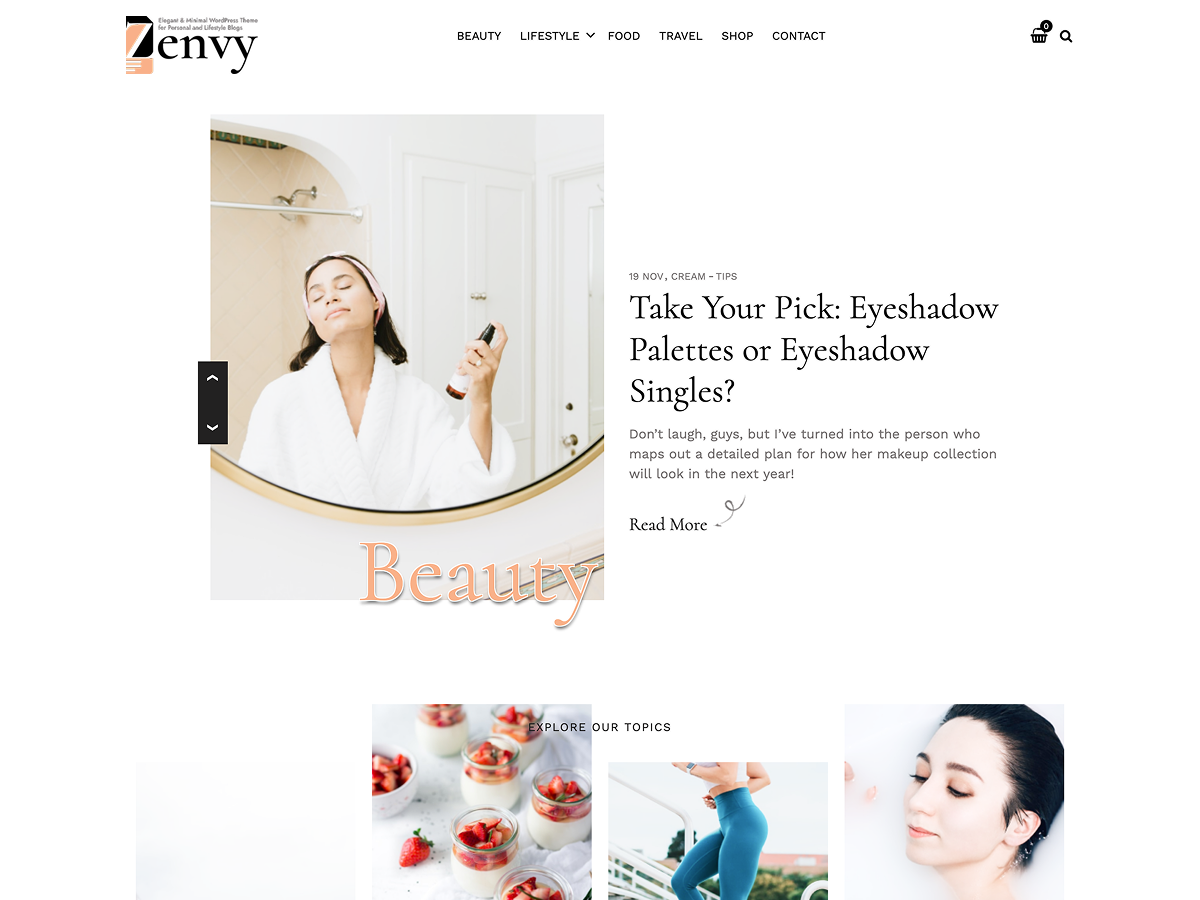
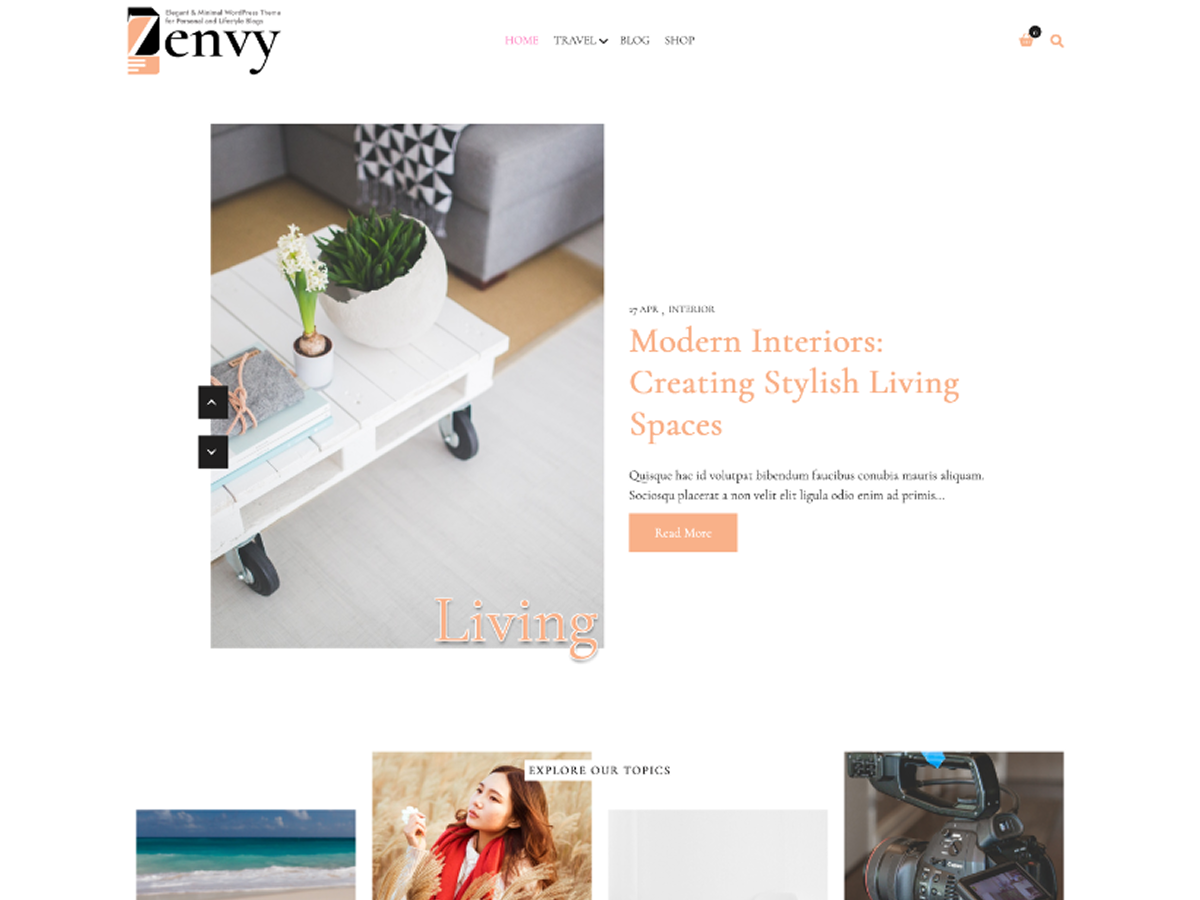
changed readme, screenshot and updated styles

diff --git a/assets/src/css/responsive.css b/assets/src/css/responsive.css
@@ -75,10 +75,8 @@
 	.post.flexible-post .post-content .entry-title {
 		font-size: 20px;
 	}
-}
 
-@media only screen and (max-width: 992px) {
-	.hgroup-right {
+.hgroup-right {
 		padding-right: 50px;
 	}
 	.main-navigation ul li ul {
@@ -117,9 +115,6 @@
 	.mean-container .mean-nav ul li li li a {
 		padding: 12px 8%;
 	}
-	.site-title {
-		font-size: 20px;
-	}
 	.mean-container a.meanmenu-reveal {
 		padding: 9px 0px 8px 5px;
 		top: 0;
@@ -142,22 +137,6 @@
 	.mean-container .meanmenu-reveal span::after {
 		background: var(--color-bg-dark);
 	}
-	.tags-links a:first-child {
-		font-size: 68px;
-	}
-	.slider-image-wrapper .tags-links {
-		bottom: 63px;
-	}
-	.section-wrap-inner .section-left,
-	.section-wrap-sidebar {
-		width: 100%;
-	}
-	.slider-title {
-		font-size: 36px;
-	}
-	.featured-slider {
-		padding: 35px 0 0;
-	}
 	.main-navigation .menu-item-has-children::before {
 		display: none;
 	}
@@ -175,6 +154,36 @@
 		height: 12px;
 		left: 0;
 	}
+	.site-header .mobile-navbar .mean-container .meanmenu-reveal.meanclose span {
+  background: transparent;
+}
+
+
+}
+
+@media only screen and (max-width: 992px) {
+	
+	.site-title {
+		font-size: 20px;
+	}
+	
+	.tags-links a:first-child {
+		font-size: 68px;
+	}
+	.slider-image-wrapper .tags-links {
+		bottom: 63px;
+	}
+	.section-wrap-inner .section-left,
+	.section-wrap-sidebar {
+		width: 100%;
+	}
+	.slider-title {
+		font-size: 36px;
+	}
+	.featured-slider {
+		padding: 35px 0 0;
+	}
+	
 	.widget-instagram ul li .featured-image img {
 		width: 100%;
 	}
@@ -281,9 +290,7 @@
  .section-wrap-inner .section-left {
     margin-bottom: 20px;
   }
-  .site-header .mobile-navbar .mean-container .meanmenu-reveal span {
-  background: transparent;
-}
+
 
 }
 

diff --git a/style.css b/style.css
@@ -3341,6 +3341,7 @@ div.bbp-submit-wrapper button {
 }
 .site-content .site-main > section.featured-slider {
   padding-bottom: 0;
+  z-index: 0;
 }
 
 /*     search section styling from here   */
@@ -4725,7 +4726,19 @@ content-post-tags {
 .mc4wp-form p label input[type="email"] {
   margin-top: 10px;
 }
-
+.site-header .header-search-section {
+    position: relative;
+    z-index: 3;
+}
+.main-navigation ul li li.menu-item-has-children {
+  margin: 0;
+}
+.main-navigation ul li li.menu-item-has-children::before {
+  right: 5px;
+}
+.main-navigation ul li li.menu-item-has-children:hover::before {
+  color: var(--color-white);
+}
 
 /*  10.0 ===== Footer =====   */
 
@@ -5036,7 +5049,6 @@ content-post-tags {
 /* builder */
 .site-header {
 	position: relative;
-	z-index: 99;
 }
 .site-header .top-header,
 .site-header .main-header,

diff --git a/assets/src/css/woocommerce.css b/assets/src/css/woocommerce.css
@@ -1,6 +1,9 @@
 /*!********************************************************************************************************************************************************************************************************************!*\
   !*** css ./node_modules/css-loader/dist/cjs.js??ruleSet[1].rules[2].use[1]!./node_modules/@wordpress/scripts/node_modules/postcss-loader/dist/cjs.js??ruleSet[1].rules[2].use[2]!./assets/src/css/woocommerce.css ***!
   \********************************************************************************************************************************************************************************************************************/
+/*!********************************************************************************************************************************************************************************************************************!*\
+  !*** css ./node_modules/css-loader/dist/cjs.js??ruleSet[1].rules[2].use[1]!./node_modules/@wordpress/scripts/node_modules/postcss-loader/dist/cjs.js??ruleSet[1].rules[2].use[2]!./assets/src/css/woocommerce.css ***!
+  \********************************************************************************************************************************************************************************************************************/
 /*
 Theme Name: Zenvy
 
@@ -606,5 +609,7 @@ article .entry-content ul li, article .entry-content ol li {
 .pagination a.next::before, .nav-next a::before{
 	color: var(--color-primary);
 }*/
+
+/*# sourceMappingURL=woocommerce.css.map*/
 
 /*# sourceMappingURL=woocommerce.css.map*/

diff --git a/functions.php b/functions.php
@@ -188,19 +188,6 @@ function zenvy_widgets_init()
 		)
 	);
 
-	// Subscribe Form
-	register_sidebar(
-		[
-			'name'          => esc_html__('Front Page: Subscribe Form', 'zenvy'),
-			'id'            => 'subscribe-form',
-			'description'   => esc_html__('Add widgets here.', 'zenvy'),
-			'before_widget' => '<section id="%1$s" class="widget %2$s">',
-			'after_widget'  => '</section>',
-			'before_title'  => '<h2 class="widget-title">',
-			'after_title'   => '</h2>',
-		]
-	);
-
 	for ($sidebar = 1; $sidebar <= 6; $sidebar++) {
 		register_sidebar(
 			[

diff --git a/inc/customizer/options/blog-posts/Zenvy_Customize_Blog_Sidebar_Fields.php b/inc/customizer/options/blog-posts/Zenvy_Customize_Blog_Sidebar_Fields.php
@@ -24,9 +24,9 @@ class Zenvy_Customize_Blog_Sidebar_Fields extends Zenvy_Customize_Base_Field {
 				'section'           => 'zenvy_blog_sidebar_section',
 				'priority'          => 15,
 				'choices'           => [
-					'left'  => ZENVY_THEME_URI . 'assets/build/images/left.svg',
-					'right' => ZENVY_THEME_URI . 'assets/build/images/right.svg',
-					'none'  => ZENVY_THEME_URI . 'assets/build/images/none.svg',
+					'left'  => ZENVY_THEME_URI . 'assets/build/images/left.png',
+					'right' => ZENVY_THEME_URI . 'assets/build/images/right.png',
+					'none'  => ZENVY_THEME_URI . 'assets/build/images/none.png',
 				],
 				'l10n'              => [
 					'left'  => esc_html__( 'Left', 'zenvy' ),

diff --git a/inc/customizer/options/single-page/Zenvy_Customize_Single_Page_Sidebar_Fields.php b/inc/customizer/options/single-page/Zenvy_Customize_Single_Page_Sidebar_Fields.php
@@ -24,9 +24,9 @@ class Zenvy_Customize_Single_Page_Sidebar_Fields extends Zenvy_Customize_Base_Fi
 				'section'           => 'zenvy_single_page_sidebar_section',
 				'priority'          => 15,
 				'choices'           => [
-					'left'  => ZENVY_THEME_URI . 'assets/build/images/left.svg',
-					'right' => ZENVY_THEME_URI . 'assets/build/images/right.svg',
-					'none'  => ZENVY_THEME_URI . 'assets/build/images/none.svg',
+					'left'  => ZENVY_THEME_URI . 'assets/build/images/left.png',
+					'right' => ZENVY_THEME_URI . 'assets/build/images/right.png',
+					'none'  => ZENVY_THEME_URI . 'assets/build/images/none.png',
 				],
 				'l10n'              => [
 					'left'  => esc_html__( 'Left', 'zenvy' ),

diff --git a/inc/customizer/options/single-post/Zenvy_Customize_Single_Post_Sidebar_Fields.php b/inc/customizer/options/single-post/Zenvy_Customize_Single_Post_Sidebar_Fields.php
@@ -24,9 +24,9 @@ class Zenvy_Customize_Single_Post_Sidebar_Fields extends Zenvy_Customize_Base_Fi
 				'section'           => 'zenvy_single_post_sidebar_section',
 				'priority'          => 15,
 				'choices'           => [
-					'left'  => ZENVY_THEME_URI . 'assets/build/images/left.svg',
-					'right' => ZENVY_THEME_URI . 'assets/build/images/right.svg',
-					'none'  => ZENVY_THEME_URI . 'assets/build/images/none.svg',
+					'left'  => ZENVY_THEME_URI . 'assets/build/images/left.png',
+					'right' => ZENVY_THEME_URI . 'assets/build/images/right.png',
+					'none'  => ZENVY_THEME_URI . 'assets/build/images/none.png',
 				],
 				'l10n'              => [
 					'left'  => esc_html__( 'Left', 'zenvy' ),